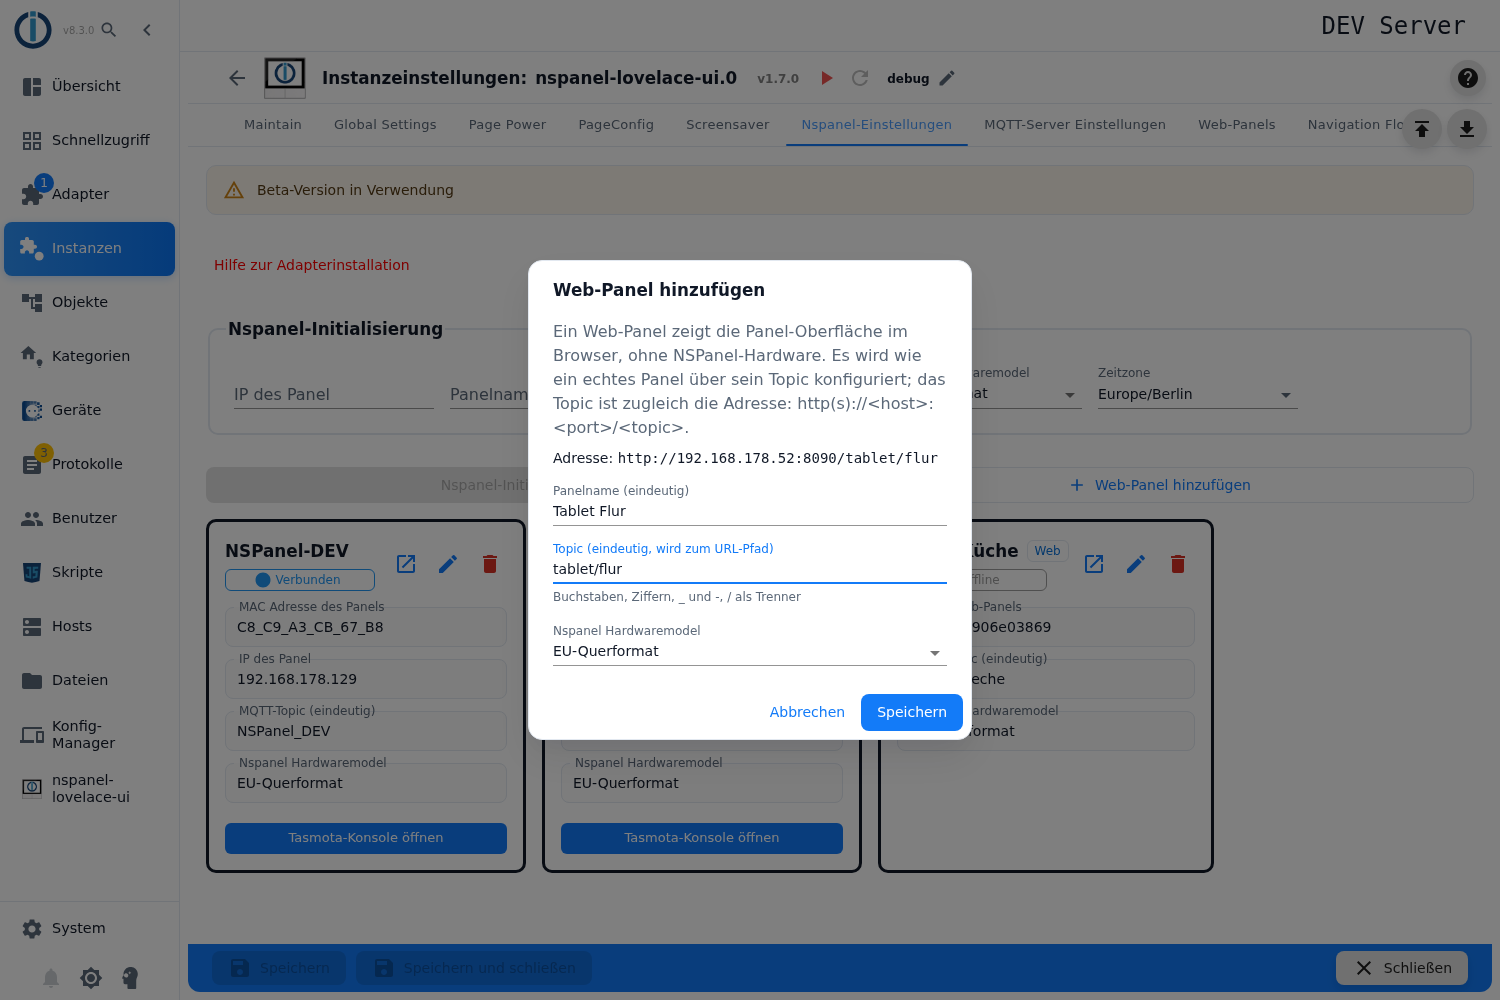
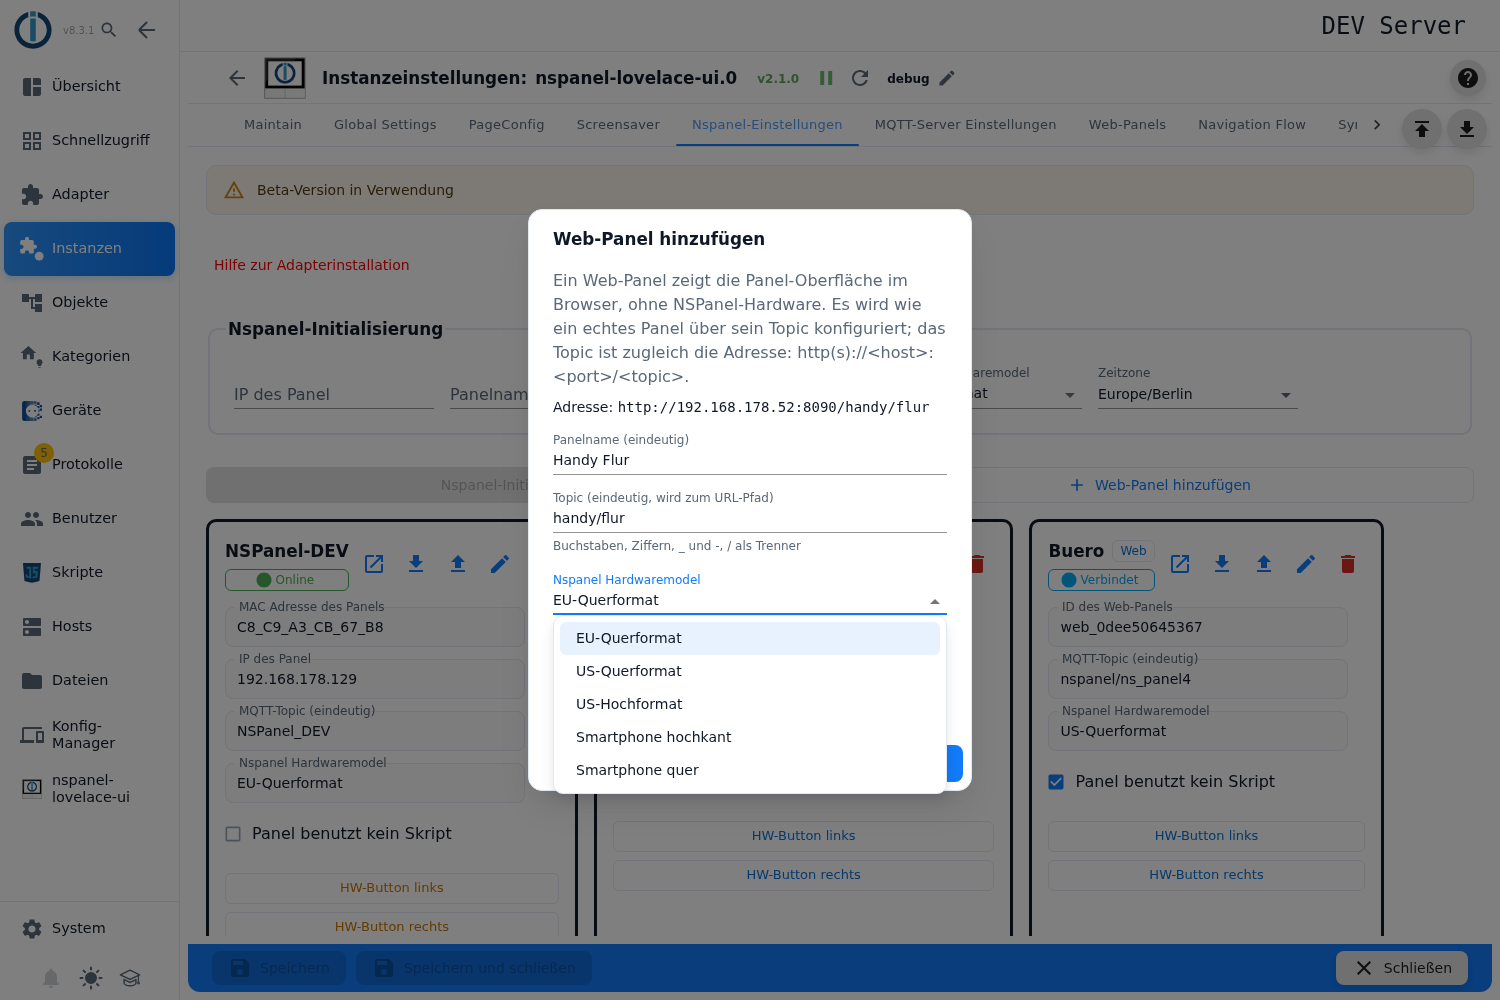
docs(WebPanel): pictures of the smartphone models (de/en) (#860)
Taken from the dev-server admin and the web panel server running `main`
b19b9ece.

- webpanel-02-hinzufuegen.png is taken again: the dialog shows the model
  choice opened, with the two smartphone models in it.
- webpanel-06-smartphone-dialog.png shows the same dialog with the model
  chosen, where the checkbox of the hardware buttons is off by default.
- webpanel-08/09 show the same page of the same web panel on the same
  phone, once with the smartphone model (filling the screen, ten places)
  and once with the panel format (wide black bars, six places).
- webpanel-07-screensaver-web-p.png shows the screensaver editor drawing
  the places of the smartphone model.

diff --git a/doc/de/WebPanel.md b/doc/de/WebPanel.md
@@ -89,7 +89,11 @@ Wichtig zu wissen:
      Solange das Häkchen im Dialog nicht von Hand gesetzt wurde, folgt es beim Wechsel des Modells dessen
      Vorgabe.
 
-   <img alt="Dialog Web-Panel hinzufügen mit Name, Topic, Hardwaremodell und Adressvorschau" src="../Pictures/webPanel/webpanel-02-hinzufuegen.png" width="100%"/>
+   <img alt="Dialog Web-Panel hinzufügen mit Name, Topic, Adressvorschau und aufgeklappter Modellauswahl" src="../Pictures/webPanel/webpanel-02-hinzufuegen.png" width="100%"/>
+
+   Mit einem Smartphone-Modell ist das Häkchen der Hardware-Tasten ab Werk aus:
+
+   <img alt="Derselbe Dialog mit dem Modell Smartphone hochkant und ausgeschaltetem Häkchen für die Hardware-Tasten" src="../Pictures/webPanel/webpanel-06-smartphone-dialog.png" width="100%"/>
 
 3. Mit **Speichern** übernehmen, dann die Instanz-Einstellungen speichern.
 
@@ -126,6 +130,13 @@ Handy oder Tablet aus.
 Die Maße sind die feste Zeichenfläche, nicht die Auflösung des Geräts: Der Browser skaliert sie auf das
 Fenster. Die Smartphone-Modelle haben das Verhältnis 2:1 und lassen auf üblichen Handys (16:9 bis 20:9) nur
 schmale Ränder, während ein Panel-Format (3:2) auf demselben Gerät breite schwarze Balken übrig lässt.
+
+| Smartphone hochkant (`web-p`) | US-Hochformat (`us-p`) |
+|---|---|
+| <img alt="Dieselbe Seite auf dem Handy mit dem Modell Smartphone hochkant: bildschirmfüllend" src="../Pictures/webPanel/webpanel-08-handy-web-p.png" width="100%"/> | <img alt="Dieselbe Seite auf dem Handy mit dem Modell US-Hochformat: breite schwarze Balken" src="../Pictures/webPanel/webpanel-09-handy-us-p.png" width="100%"/> |
+
+Dasselbe Web-Panel mit derselben Seite auf demselben Handy: Links füllt das Smartphone-Modell den Bildschirm
+und zeigt zehn Plätze, rechts bleiben beim Panel-Format breite Balken und sechs Plätze übrig.
 
 **Die Ausrichtung gehört zum Modell.** Ein Web-Panel dreht sich **nicht** mit dem Gerät: Wer ein Panel mit
 *Smartphone hochkant* quer hält, sieht dasselbe Bild kleiner und mit Rändern. Wer beide Haltungen will,
@@ -179,6 +190,8 @@ Alles andere bleibt gleich: ein Platz für Favorit bzw. Wechselanzeige, zwei Sta
 Datum. Der [Bildschirmschoner-Editor](screensaver) zeichnet die Plätze des gewählten Modells und schreibt
 darüber „Plätze für Modell …“; ohne zugewiesenes Panel steht dort „die Plätze erscheinen, sobald ein Panel
 gewählt ist“.
+
+<img alt="Der Bildschirmschoner-Editor mit dem Modell Smartphone hochkant: acht Indikatoren über der Uhr, acht Plätze unten" src="../Pictures/webPanel/webpanel-07-screensaver-web-p.png" width="100%"/>
 
 ### Zeilen einer Benachrichtigung
 

diff --git a/doc/en/WebPanel.md b/doc/en/WebPanel.md
@@ -89,7 +89,11 @@ Good to know:
      as the checkbox has not been set by hand in the dialog, it follows the default of the model when the
      model is changed.
 
-   <img alt="Add web panel dialog with name, topic, hardware model and address preview" src="../Pictures/webPanel/webpanel-02-hinzufuegen.png" width="100%"/>
+   <img alt="Add web panel dialog with name, topic, address preview and the opened model choice" src="../Pictures/webPanel/webpanel-02-hinzufuegen.png" width="100%"/>
+
+   With a smartphone model the checkbox of the hardware buttons is off by default:
+
+   <img alt="The same dialog with the model smartphone portrait and the checkbox of the hardware buttons switched off" src="../Pictures/webPanel/webpanel-06-smartphone-dialog.png" width="100%"/>
 
 3. Confirm with **Save**, then save the instance settings.
 
@@ -124,6 +128,13 @@ for standalone web panels: they do not imitate an NSPanel, they fill a phone or 
 The sizes are the fixed drawing area, not the resolution of the device: the browser scales it to the
 window. The smartphone models have a 2:1 ratio and leave only narrow margins on common phones (16:9 to
 20:9), while a panel format (3:2) leaves wide black bars on the same device.
+
+| Smartphone portrait (`web-p`) | US portrait (`us-p`) |
+|---|---|
+| <img alt="The same page on the phone with the model smartphone portrait: filling the screen" src="../Pictures/webPanel/webpanel-08-handy-web-p.png" width="100%"/> | <img alt="The same page on the phone with the model US portrait: wide black bars" src="../Pictures/webPanel/webpanel-09-handy-us-p.png" width="100%"/> |
+
+The same web panel with the same page on the same phone: on the left the smartphone model fills the screen
+and shows ten places, on the right the panel format leaves wide bars and six places.
 
 **The orientation belongs to the model.** A web panel does **not** rotate with the device: holding a panel
 with *Smartphone portrait* in landscape shows the same picture, smaller and with margins. For both ways of
@@ -176,6 +187,8 @@ Everything else stays the same: one place for the favourite or the alternate dis
 time and date. The [screensaver editor](screensaver) draws the places of the chosen model and writes
 "places for model …" above them; without an assigned panel it says "the places appear as soon as a panel is
 chosen".
+
+<img alt="The screensaver editor with the model smartphone portrait: eight indicators above the clock, eight places at the bottom" src="../Pictures/webPanel/webpanel-07-screensaver-web-p.png" width="100%"/>
 
 ### Lines of a notification
 
